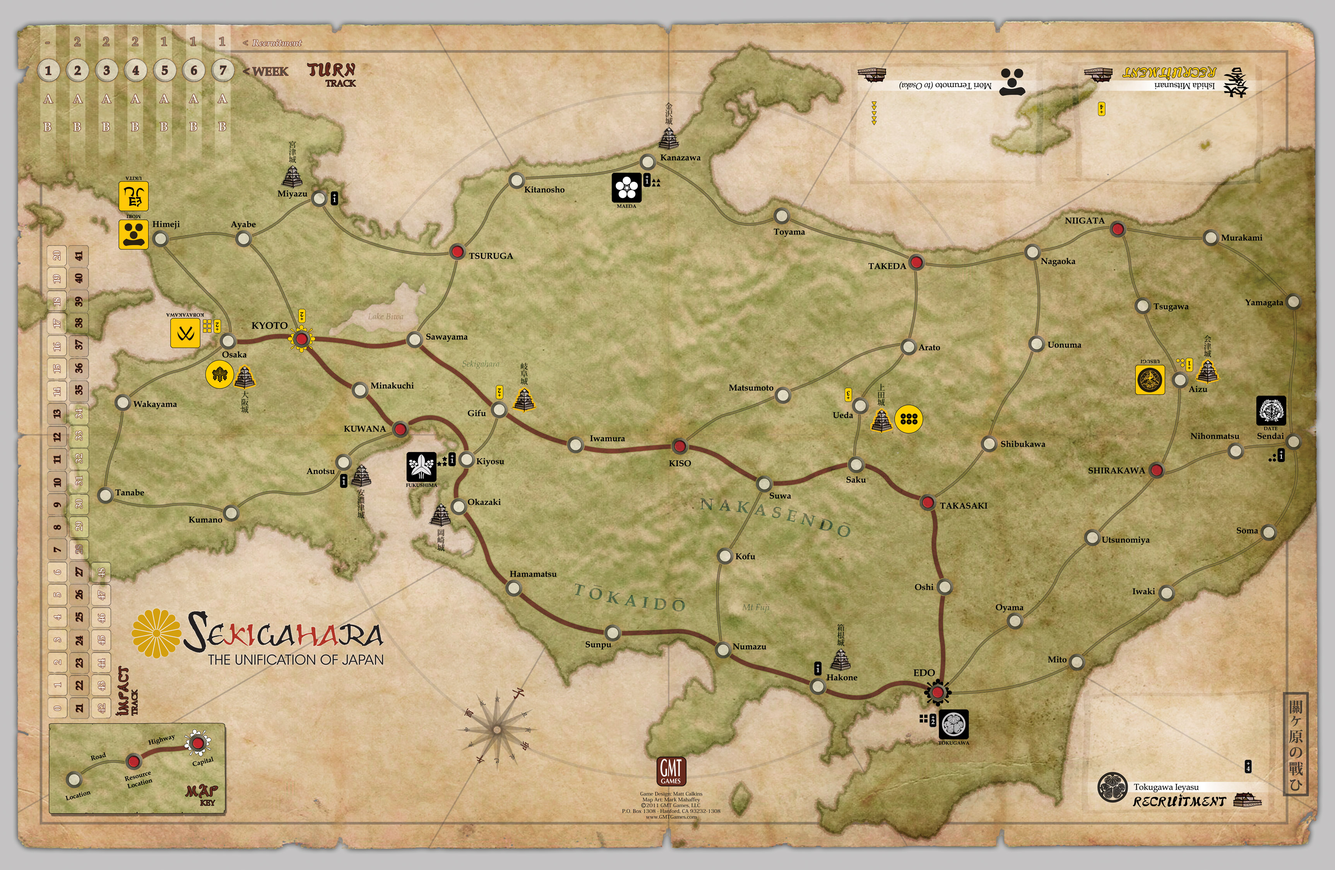
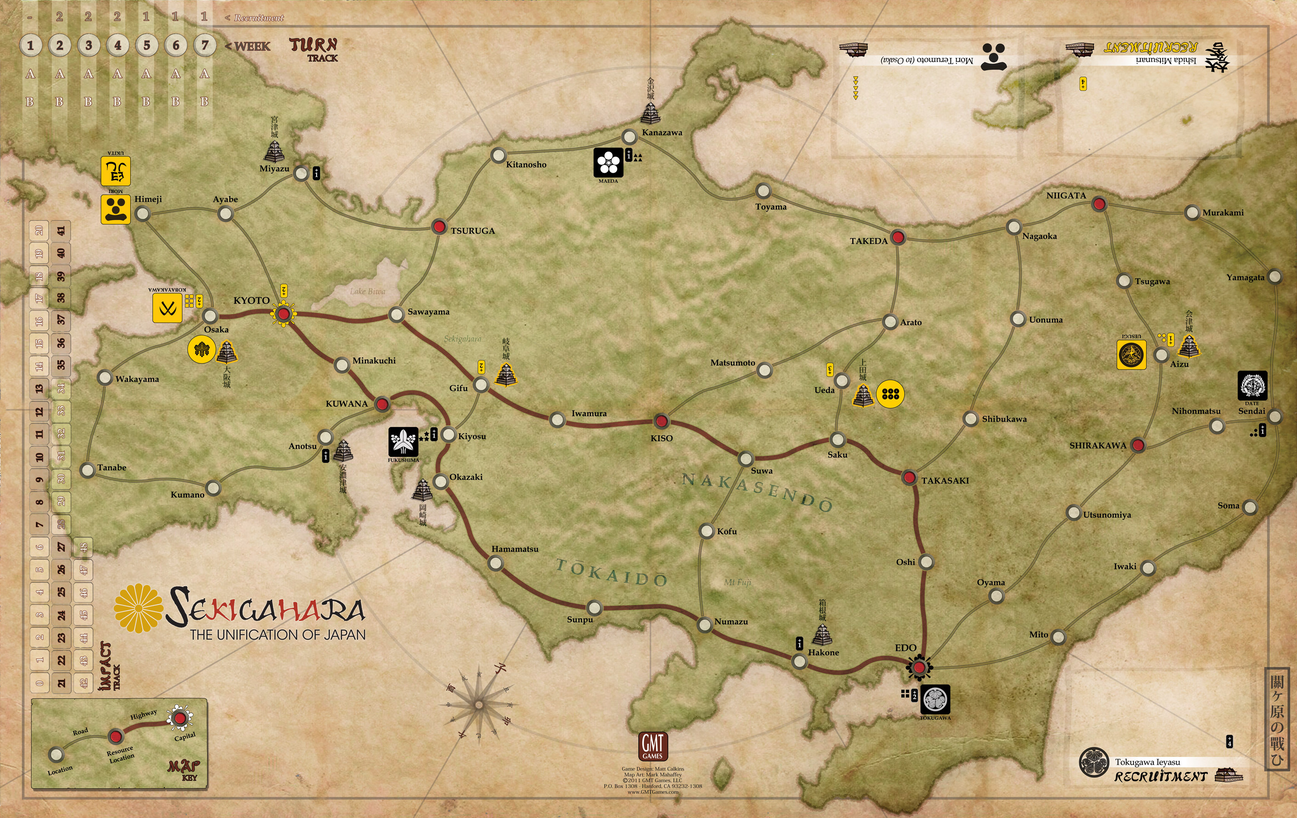
block on board positioning css

diff --git a/sekigahara/modules/js/Core/game.js b/sekigahara/modules/js/Core/game.js
@@ -65,9 +65,9 @@ define(['dojo', 'dojo/_base/declare', 'ebg/core/gamegui'], (dojo, declare) => {
 
     resizeBoard(){
       let width = dojo.byId('game_play_area').getBoundingClientRect().width;
-      let map_width = 3450.0;
+      let map_width = 3354.0;
       let scale = width / map_width;
-      let height = toint(scale * 2250);
+      let height = toint(scale * 2115);
       dojo.style('board', 'transform',  'scale('+scale+')');
       dojo.style('board_wrapper', 'height', height+'px');
     },

diff --git a/sekigahara/sekigahara.css b/sekigahara/sekigahara.css
@@ -75,14 +75,22 @@
   background-image: url("img/map.jpg");
   transform-origin: 0 0;
   transform: scale(1);
-  width: 3450px;
-  height: 2250px;
+  width: 3354px;
+  height: 2115px;
+}
+
+#kyoto {
+  position: absolute;
+  left: 734px;
+  top: 813px;
 }
 
 .block {
   background-image: url(img/blocks.png);
   background-repeat: no-repeat;
   display: block;
+  transform: scale(0.64);
+  transform-origin: -100% -100%;
 }
 
 .block_date_2 {

diff --git a/sekigahara/modules/css/board.scss b/sekigahara/modules/css/board.scss
@@ -2,6 +2,12 @@
 	background-image: url('img/map.jpg');
 	transform-origin: 0 0;
 	transform: scale(1.0);
-	width: 3450px;
-	height: 2250px;
+	width: 3354px;
+	height: 2115px;
+}
+
+#kyoto {
+	position: absolute;
+	left: 734px;
+	top: 813px;
 }

diff --git a/sekigahara/modules/css/sprites.scss b/sekigahara/modules/css/sprites.scss
@@ -2,6 +2,8 @@
     background-image: url(img/blocks.png);
     background-repeat: no-repeat;
     display: block;
+    transform: scale(.64);
+    transform-origin: -100% -100%;
 }
 
 .block_date_2 {
